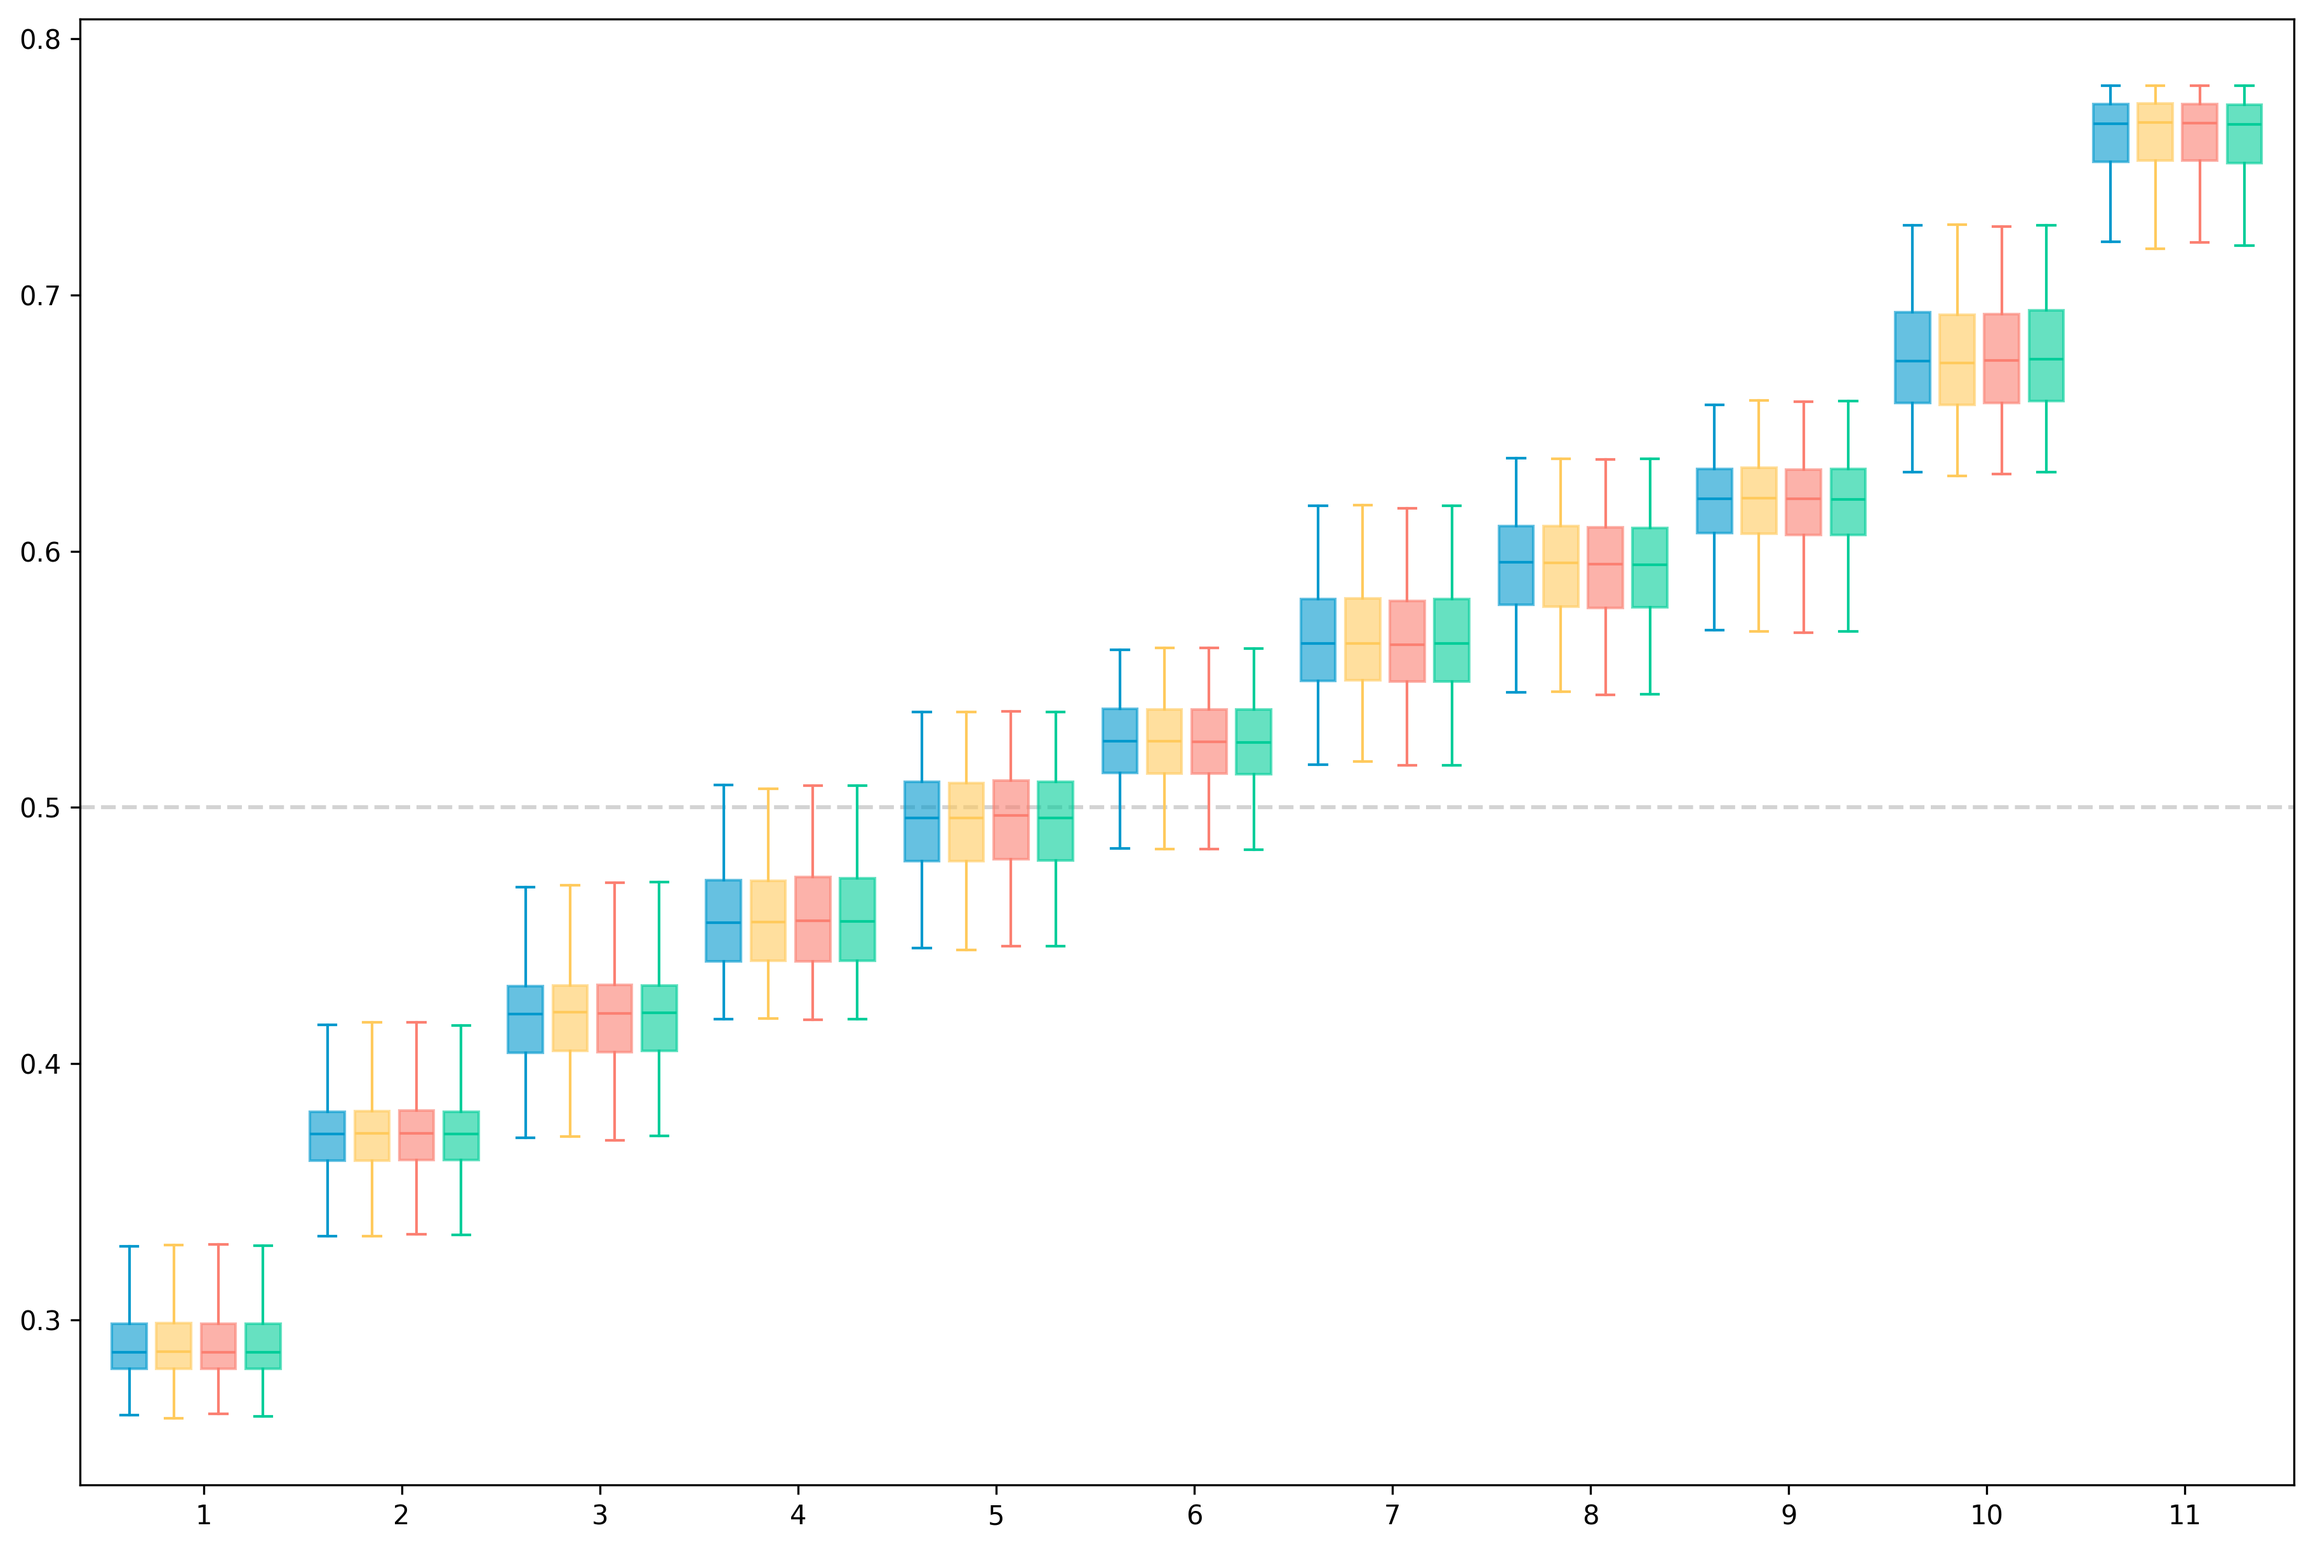
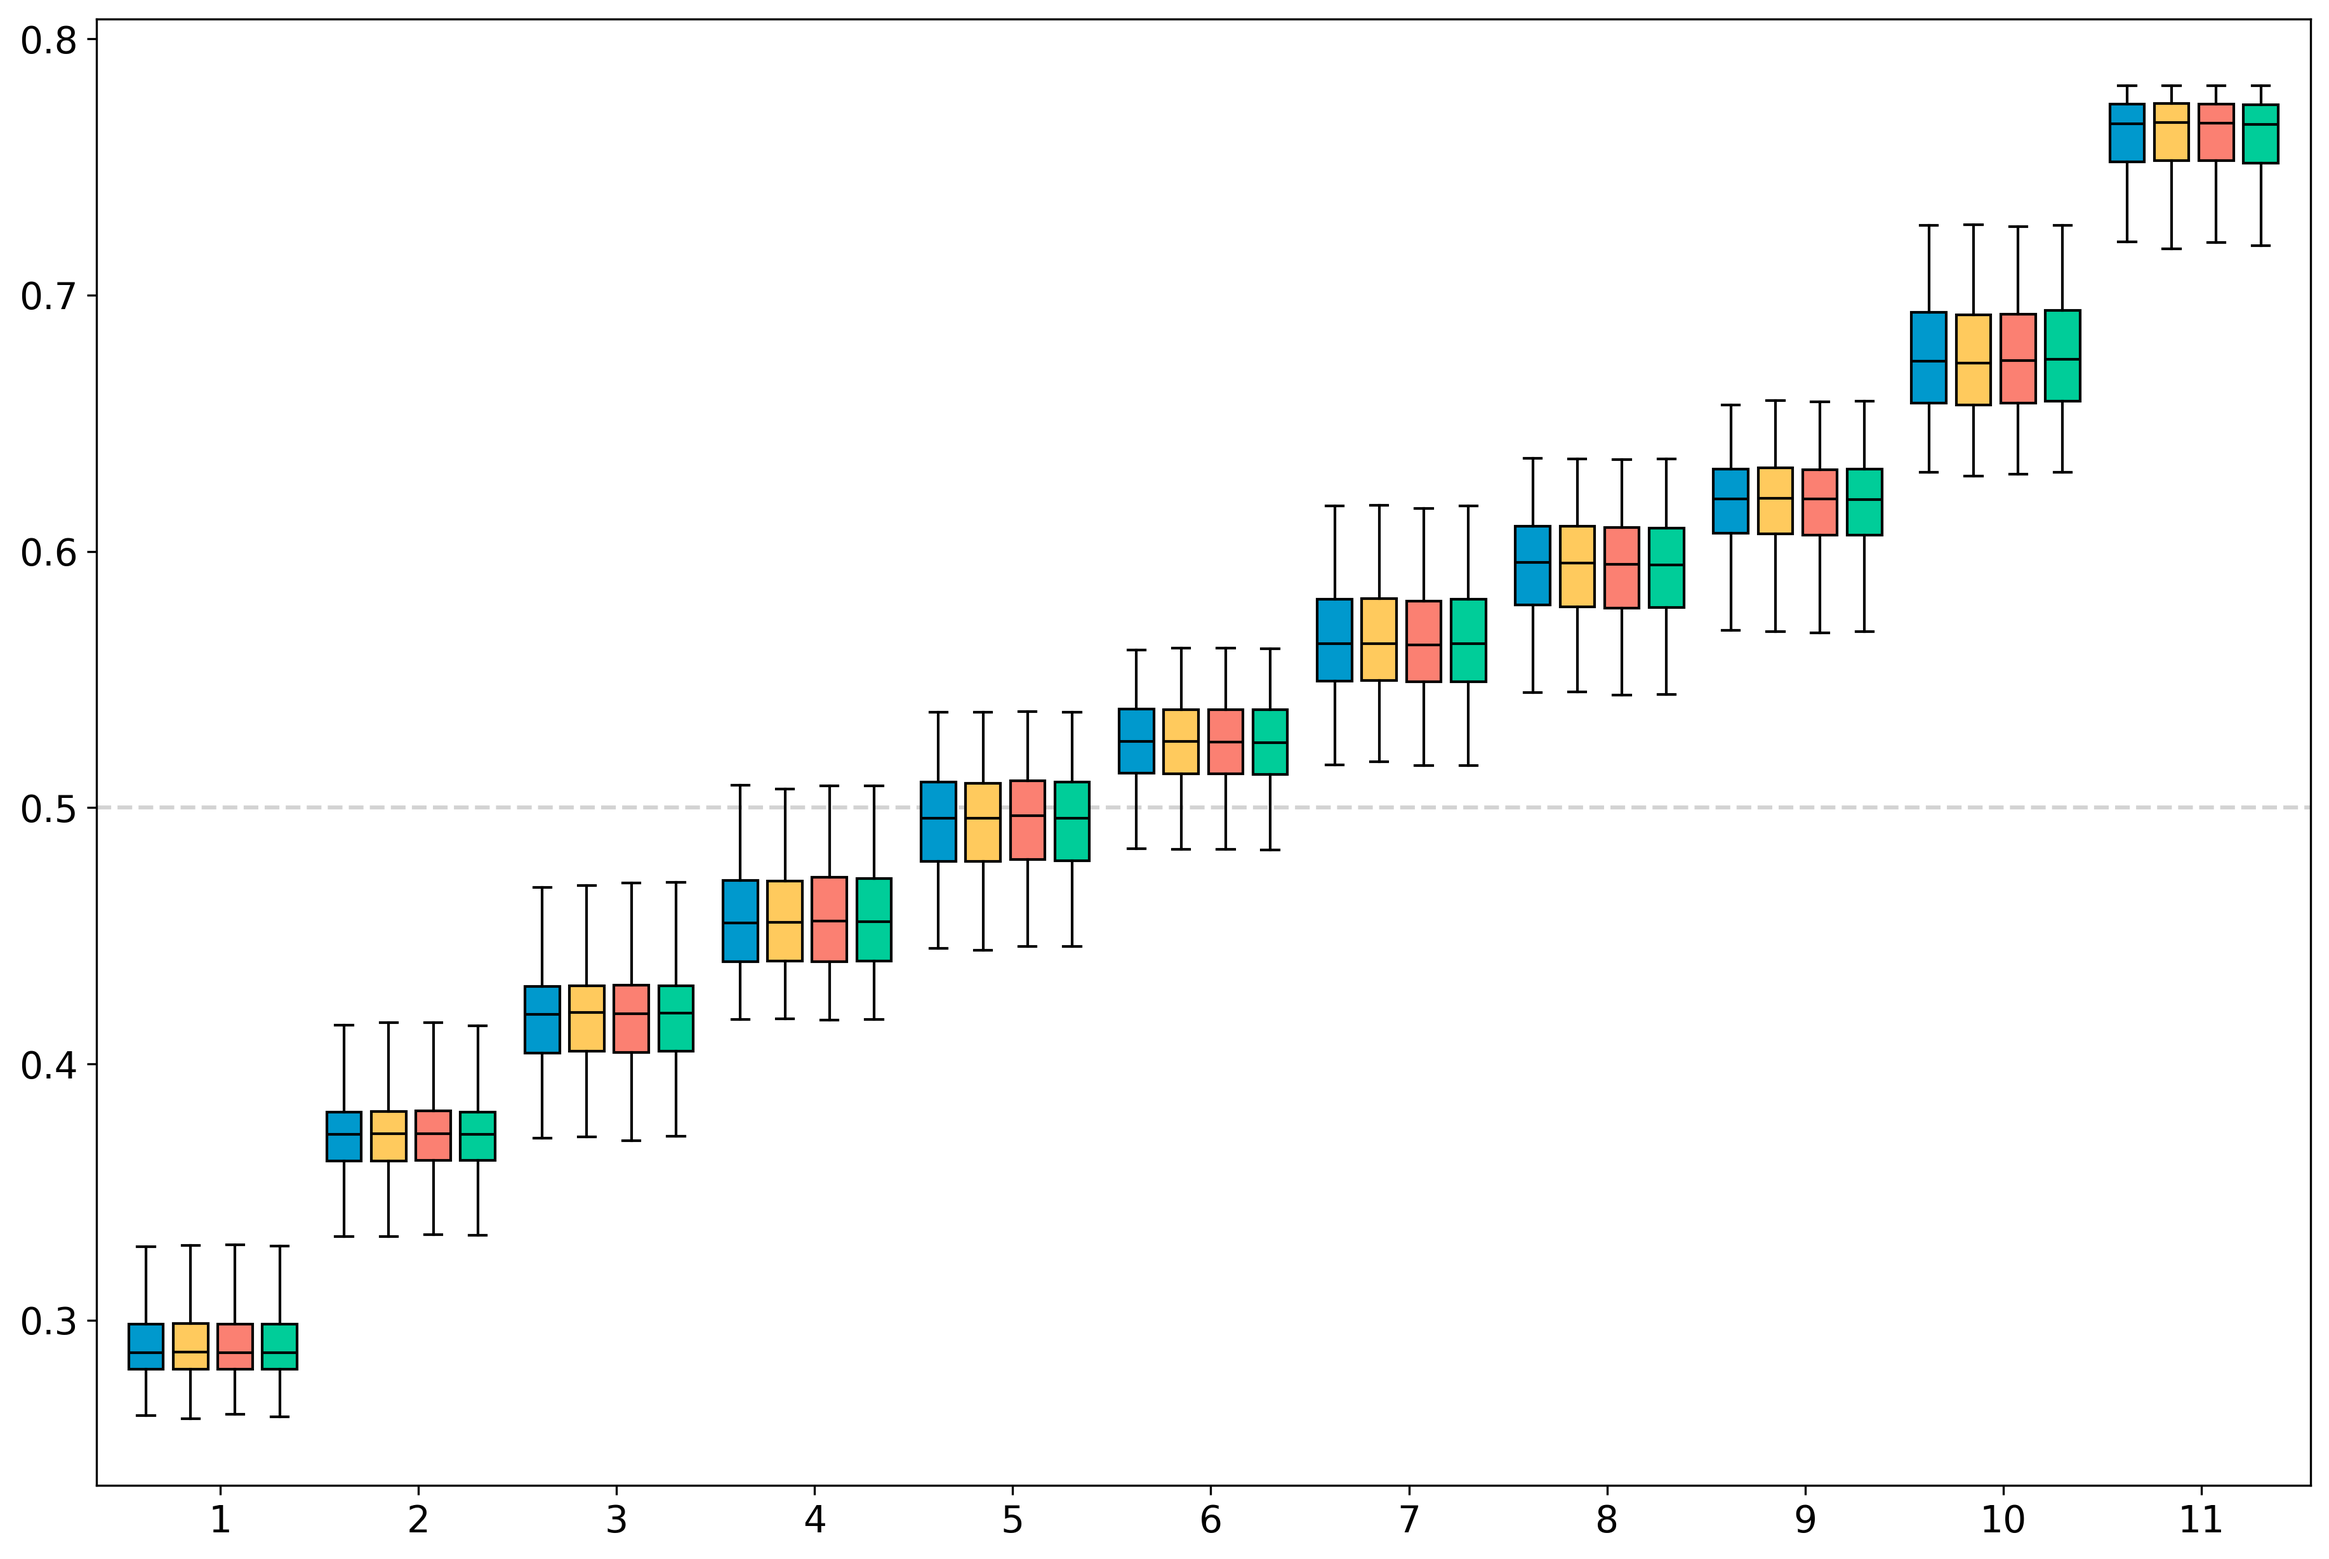
Final set of cosmetic updates

diff --git a/figure_and_table_generation/figure_scripts/multigrid_visualization.py b/figure_and_table_generation/figure_scripts/multigrid_visualization.py
@@ -84,11 +84,11 @@ def make_square_multigrid_heatmap(
         file_name = file.split("/")[-1].split(".")[0]
         if row_pos > 0:
             ax[row_pos, col_pos].set_title(
-                file_to_title_dict[file_name], y=-0.03, size=20, weight="bold"
+                file_to_title_dict[file_name], y=-0.05, size=36, weight="bold"
             )
         else:
             ax[row_pos, col_pos].set_title(
-                file_to_title_dict[file_name], y=0.97, size=20, weight="bold"
+                file_to_title_dict[file_name], y=0.97, size=36, weight="bold"
             )
 
     plt.tight_layout(pad=0.0, w_pad=0.0, h_pad=0.0)
@@ -196,7 +196,9 @@ def make_linear_multigrid_heatmap(
     -------
     None
     """
-    fig, ax = plt.subplots(3, 2, figsize=(33, 9), dpi=400)
+    fig, ax = plt.subplots(
+        3, 2, figsize=(33, 9), dpi=400, gridspec_kw={"wspace": 0.0, "hspace": 0.0}
+    )
 
     outpath = Path(output_folder)
 
@@ -248,7 +250,7 @@ def make_linear_multigrid_heatmap(
                 ha="center",
                 va="center",
                 weight="bold",
-                fontsize=20,
+                fontsize=28,
             )
 
         else:
@@ -261,10 +263,10 @@ def make_linear_multigrid_heatmap(
                 ha="center",
                 va="center",
                 weight="bold",
-                fontsize=20,
+                fontsize=28,
             )
 
-    plt.tight_layout(w_pad=0)
+    plt.tight_layout(w_pad=3.0, h_pad=0)
     plt.savefig(
         outpath.joinpath("linear_multigrid_heatmap_all.png"), bbox_inches="tight"
     )
@@ -352,7 +354,7 @@ if __name__ == "__main__":
         "square_rev_100M_accept_50000_changed_assignments": "RevReCom",
         "square_C_1M_accept_50000_changed_assignments": "ReCom-C",
         "square_D_1M_accept_50000_changed_assignments": "ReCom-D",
-        "square_forest_1M_jl_accept_50000_changed_assignments": "Forest ReCom",
+        "square_forest_1M_jl_accept_50000_changed_assignments": "Forest",
     }
 
     make_square_multigrid_heatmap(
@@ -386,10 +388,10 @@ if __name__ == "__main__":
     flie_to_title = {
         "linear_A_1M_accept_50000_changed_assignments": "ReCom-A",
         "linear_B_1M_accept_50000_changed_assignments": "ReCom-B",
-        "linear_rev_200M_accept_50000_changed_assignments": "RevReCom",
         "linear_C_1M_accept_50000_changed_assignments": "ReCom-C",
         "linear_D_1M_accept_50000_changed_assignments": "ReCom-D",
-        "linear_forest_1M_jl_accept_50000_changed_assignments": "Forest ReCom",
+        "linear_rev_200M_accept_50000_changed_assignments": "RevReCom",
+        "linear_forest_1M_jl_accept_50000_changed_assignments": "Forest",
     }
 
     make_linear_multigrid_heatmap(

diff --git a/figure_and_table_generation/figure_scripts/helper_files/legend_saver.py b/figure_and_table_generation/figure_scripts/helper_files/legend_saver.py
@@ -1,6 +1,7 @@
 import matplotlib.pyplot as plt
 from matplotlib.patches import Patch
 from matplotlib.lines import Line2D
+import numpy as np
 
 
 def save_legend_png(
@@ -13,7 +14,7 @@ def save_legend_png(
     dpi=200,
     label_fontsize=10,
     title_fontsize=None,
-    pad_in=0.25,
+    pad_in=0.0,
 ):
     """
     Save a standalone legend as a PNG (transparent background).
@@ -69,10 +70,7 @@ def save_legend_png(
     w_in, h_in = bbox.width / fig.dpi, bbox.height / fig.dpi
     fig.set_size_inches(w_in + pad_in, h_in + pad_in)
 
-    # Transparent background
-    fig.patch.set_alpha(0)
-
-    fig.savefig(filename, dpi=dpi, bbox_inches="tight", transparent=True)
+    fig.savefig(filename, dpi=dpi, bbox_inches="tight")
     plt.close(fig)
 
 
@@ -99,3 +97,59 @@ def marker_handles(labels, colors, markers=None, linestyle="none", linewidth=2):
         )
         for i in range(len(labels))
     ]
+
+
+def scatter_handles(
+    labels,
+    colors,
+    markers="o",
+    sizes=36,
+    edgecolors="none",
+    alphas=1.0,
+    linewidths=0.8,
+):
+    """
+    Build legend handles that look like scatter points.
+
+    Parameters
+    ----------
+    labels : list[str]
+    colors : list[str]
+    markers : str | list[str]
+        Marker style(s), e.g., "o", "^", "s".
+    sizes : float | list[float]
+        Area(s) in pt² (like scatter's `s`). Converted to markersize via sqrt.
+    edgecolors : str | list[str]
+    alphas : float | list[float]
+    linewidths : float | list[float]
+    """
+    # Broadcast scalars to lists
+    n = len(labels)
+    if not isinstance(markers, (list, tuple)):
+        markers = [markers] * n
+    if not isinstance(sizes, (list, tuple, np.ndarray)):
+        sizes = [sizes] * n
+    if not isinstance(edgecolors, (list, tuple)):
+        edgecolors = [edgecolors] * n
+    if not isinstance(alphas, (list, tuple, np.ndarray)):
+        alphas = [alphas] * n
+    if not isinstance(linewidths, (list, tuple, np.ndarray)):
+        linewidths = [linewidths] * n
+
+    handles = []
+    for i in range(n):
+        ms = float(np.sqrt(sizes[i]))  # convert area (pt²) -> markersize (pt)
+        h = Line2D(
+            [0],
+            [0],
+            marker=markers[i],
+            linestyle="",  # no line
+            markersize=ms,
+            markerfacecolor=colors[i],
+            markeredgecolor=edgecolors[i],
+            alpha=alphas[i],
+            markeredgewidth=linewidths[i],
+            label=labels[i],
+        )
+        handles.append(h)
+    return handles

diff --git a/figure_and_table_generation/figure_scripts/wasserstein_trace_VA.py b/figure_and_table_generation/figure_scripts/wasserstein_trace_VA.py
@@ -132,6 +132,15 @@ if __name__ == "__main__":
         resolution=n_accepted / n_items,
     )
 
+    import json
+
+    with open("wasserstein_trace_VA_rrc_compare.json", "w") as f:
+        json.dump(
+            {"ticks": was_rrc_compare_ticks, "distances": was_rrc_compare_distances},
+            f,
+            indent=4,
+        )
+
     was_full_1f_ticks, was_full_1f_distances = wasserstein_trace_shares(
         shares1_df=rev_df1_shares_total.iloc[:n_accepted, :],
         shares2_df=forest_df_shares_total.iloc[:n_accepted, :],
@@ -140,6 +149,13 @@ if __name__ == "__main__":
         resolution=n_accepted / n_items,
     )
 
+    with open("wasserstein_trace_VA_full_1f_compare.json", "w") as f:
+        json.dump(
+            {"ticks": was_full_1f_ticks, "distances": was_full_1f_distances},
+            f,
+            indent=4,
+        )
+
     was_full_2f_ticks, was_full_2f_distances = wasserstein_trace_shares(
         shares1_df=rev_df2_shares_total.iloc[:n_accepted, :],
         shares2_df=forest_df_shares_total.iloc[:n_accepted, :],
@@ -147,6 +163,13 @@ if __name__ == "__main__":
         weights2=forest_df_dem.iloc[:n_accepted, :]["n_reps"],
         resolution=n_accepted / n_items,
     )
+
+    with open("wasserstein_trace_VA_full_2f_compare.json", "w") as f:
+        json.dump(
+            {"ticks": was_full_2f_ticks, "distances": was_full_2f_distances},
+            f,
+            indent=4,
+        )
 
     # ======================
     # + START MAKING PLOTS +
@@ -175,8 +198,8 @@ if __name__ == "__main__":
         color=colors[3],
     )
 
-    ax.tick_params(axis="both", labelsize=14)
-    ax.set_xlabel("accepted", loc="right", fontsize=12)
+    ax.tick_params(axis="both", labelsize=24)
+    ax.set_xlabel("accepted", loc="right", fontsize=24)
     ticks = list(range(250_000, 2_000_000, 250_000))
     ax.set_xticks(ticks)
     ax.set_xlim(0, 1_900_000)

diff --git a/figure_and_table_generation/figure_scripts/smc_scatterplots.py b/figure_and_table_generation/figure_scripts/smc_scatterplots.py
@@ -3,6 +3,7 @@
 import pandas as pd
 from pathlib import Path
 import matplotlib.pyplot as plt
+from helper_files.legend_saver import save_legend_png, scatter_handles
 
 
 smc_color = "#FDD06D"
@@ -62,7 +63,7 @@ if __name__ == "__main__":
         f"{top_dir}/other_data_files/processed_data_files/7x7/7x7_wasserstein_5k_to_100k_data.csv"
     )
 
-    fig, ax = plt.subplots(figsize=(10, 6))
+    fig, ax = plt.subplots(figsize=(15, 10), dpi=400)
 
     large_data.plot.scatter(
         x="batch_size",
@@ -70,6 +71,7 @@ if __name__ == "__main__":
         ax=ax,
         color=smc_color,
         linewidth=2,
+        s=100,
     )
 
     ax.hlines(
@@ -82,24 +84,40 @@ if __name__ == "__main__":
     )
 
     ax.set_xlim(0, 105000)
-    ax.set_ylim(0, 0.2)
+    ax.set_ylim(-0.01, 0.21)
 
     ax.set_xticks(
         [20000, 40000, 60000, 80000, 100000],
         labels=["20K", "40K", "60K", "80K", "100K"],
+        fontsize=24,
     )
     ax.set_yticks(
         [0, 0.025, 0.05, 0.075, 0.1, 0.125, 0.15, 0.175, 0.2],
         labels=["", "", "", "", "0.1", "", "", "", "0.2"],
+        fontsize=24,
     )
 
-    ax.set_xlabel("")
+    ax.set_xlabel("sample size", loc="right", fontsize=24)
     ax.set_ylabel("")
     ax.margins(0)
 
     plt.savefig(
         f"{output_dir}/7x7_wasserstein_scatter_plot_5k_to_100k.png",
         bbox_inches="tight",
-        dpi=300,
+        dpi=400,
     )
     plt.close(fig)
+
+    labels = [
+        "SMC vs full",
+    ]
+    colors_legend = [smc_color]
+    handles = scatter_handles(labels=labels, colors=colors_legend, sizes=100)
+    save_legend_png(
+        handles=handles,
+        filename=f"{output_dir}/7x7_wasserstein_scatter_plot_legend.png",
+        ncol=1,
+        frameon=True,
+        dpi=200,
+        label_fontsize=14,
+    )

diff --git a/figure_and_table_generation/figure_scripts/box_share_VA.py b/figure_and_table_generation/figure_scripts/box_share_VA.py
@@ -147,10 +147,10 @@ if __name__ == "__main__":
             res = ax.bxp(
                 [boxplot_stats],
                 positions=[2 * (i + 1) + (j * 0.45)],
-                capprops={"color": colors[j]},
-                boxprops={"facecolor": colors[j], "edgecolor": colors[j], "alpha": 0.6},
-                whiskerprops={"color": colors[j]},
-                medianprops={"color": colors[j]},
+                capprops={"color": "black"},
+                boxprops={"facecolor": colors[j], "edgecolor": "black"},
+                whiskerprops={"color": "black"},
+                medianprops={"color": "black"},
                 widths=0.35,
                 patch_artist=True,
             )
@@ -165,7 +165,8 @@ if __name__ == "__main__":
         print(f"Done iteration {j+1}/{len(arrs)}")
 
     ax.set_xticks([2 * i + 0.75 for i in range(1, arrs[0].shape[1] + 1)])
-    ax.set_xticklabels([i for i in range(1, arrs[0].shape[1] + 1)])
+    ax.set_xticklabels([i for i in range(1, arrs[0].shape[1] + 1)], fontsize=14)
+    ax.set_yticklabels([f"{i:.1f}" for i in ax.get_yticks()], fontsize=14)
 
     plt.savefig(
         out_path.joinpath("dem_share_boxplots_VA.png"), dpi=300, bbox_inches="tight"
@@ -177,9 +178,9 @@ if __name__ == "__main__":
         handles=handles,
         filename=out_path.joinpath("dem_share_boxplots_VA_legend.png"),
         labels=[
-            "RevReCom 1",
-            "RevReCom 2",
-            "RevReCom 3",
+            "RevReCom1",
+            "RevReCom2",
+            "RevReCom3",
             "Forest",
         ],
         label_fontsize=16,

diff --git a/figure_and_table_generation/figure_scripts/wasserstein_trace_7x7.py b/figure_and_table_generation/figure_scripts/wasserstein_trace_7x7.py
@@ -271,7 +271,7 @@ def make_recom_comparison(
     )
 
     for i in range(17):
-        ax.axhline(y=0.1 * i, color="#bbb", linewidth=2.5)
+        ax.axhline(y=0.1 * i, color="lightgrey", linewidth=2)
 
     linewidth = 5
 
@@ -342,9 +342,9 @@ def make_recom_comparison(
         ax.set_xticklabels([f"{i//1_000}k" for i in plot_tick_list])
 
     ax.set_xlim(0, 0.99 * n_accepted)
-    ax.set_xticklabels(ax.get_xticklabels(), fontsize=16)
-    ax.set_yticklabels(ax.get_yticklabels(), fontsize=16)
-    ax.set_xlabel("accepted", loc="right", fontsize=16)
+    ax.set_xticklabels(ax.get_xticklabels(), fontsize=24)
+    ax.set_yticklabels(ax.get_yticklabels(), fontsize=24)
+    ax.set_xlabel("accepted", loc="right", fontsize=24)
 
     plt.savefig(
         out_path.joinpath(

diff --git a/figure_and_table_generation/figure_scripts/histogram_comparison_50x50.py b/figure_and_table_generation/figure_scripts/histogram_comparison_50x50.py
@@ -208,4 +208,4 @@ if __name__ == "__main__":
 
     make_method_plot(rrc_forest_50, 900, 1151, 50, "forest_rrc")
     make_method_plot(rrc_forest_smc_50, 900, 1151, 50, "forest_rrc_smc")
-    make_recom_plot(900, 1180, 50, "*_ReCom*50x1_*")
+    make_recom_plot(900, 1151, 50, "*_ReCom*50x1_*")
